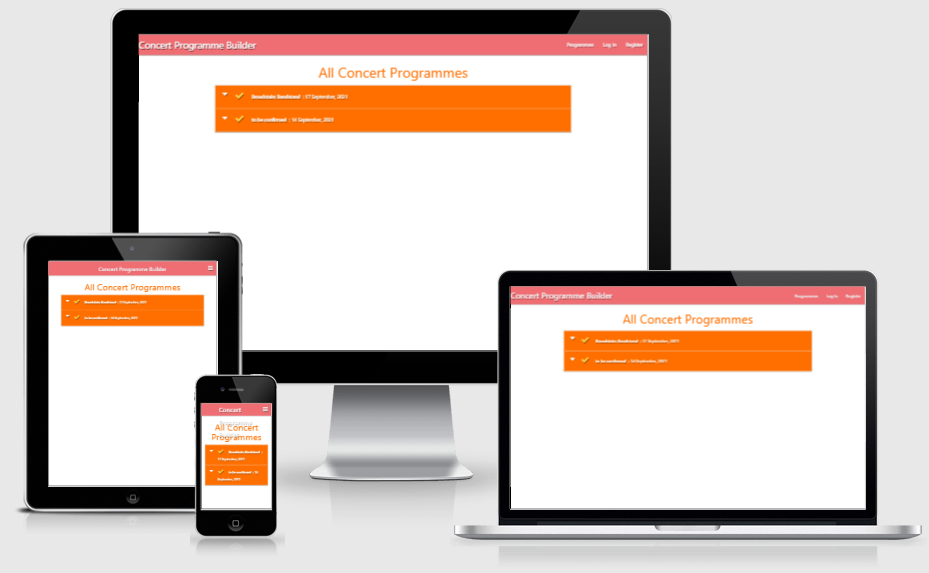
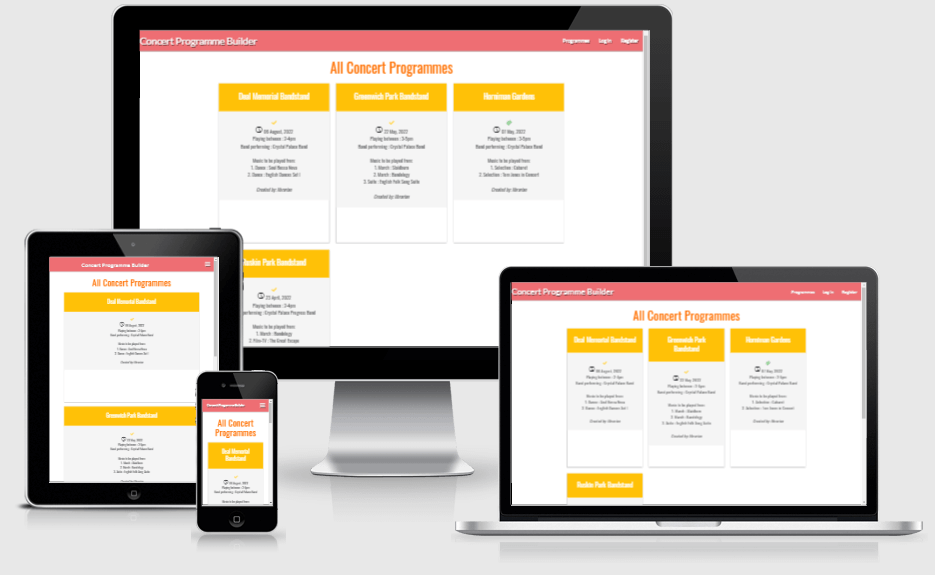
amend README (including new amended image files) to reflect resubmission position

Changed region(s): [[0.0, 0.0, 0.9989, 0.9791]]

diff --git a/README.md b/README.md
@@ -110,12 +110,12 @@ The following user stories were descoped early on in the project due to time con
 
 - ## 4. Skeleton
 
-> -  Wireframes available [here](/static/docs/RLs-CI-MS3-Wireframes.pdf).
+> -  Wireframes available [here](/static/docs/RLs-CI-MS3-Wireframes.pdf). It should be noted that the display layouts actually developed have evolved since the these orginal wireframes were produced to generally improve the look and feel of the site. Key differences are the use of cards rather accordion devices for displaying the concert programmes and the ability introduced to store a variable number of music items within a programme. Revised Wireframes will be provided in the future.
 > -  A multi page website using Flask to route to the appropriate template page, dependent on the options selected made up of the following pages :
 > -  The Home page provides a textual introduction to the site.
 > -  The Music Items page (only visible to the Librarian, Musical Director(s) and registered Band Members) presents a summary list of music items available with a search facility based on the Title. Additional edit capabilities are provided only to the Librarian, Musical Director(s) for integrity purposes.
 > -  The Concert Programmes page (visible to all users) presents a summary list of concert programmes available with a search facility based on the venue and/or date. Additional edit capabilities are provided only to the Librarian, Musical Director(s) for integrity purposes. 
-> -  The Concert Programme Details page (available via the Concert Programmes page) provides the date, times, venue and content of the programme with an option to print.
+> -  The Concert Programme Details page (available via the Concert Programmes page) provides the date, times, venue and content of the programme with an option to print. (Note : the print feature was was dropped from the initial scope of this project due to time constraints)
 > -  The Login / Register page.
 > -  The User Admin page (only accessible to the User Admin) for the creation, display, search, update and delete of user profiles. (Note : this feature was dropped from the initial scope of this project due to time constraints)
 >
@@ -125,7 +125,7 @@ The following user stories were descoped early on in the project due to time con
 
 - ## 5. Surface
 
-> I've decided on the same colour scheme for the body of each separate page using appropriate icons alongside the title of the page to keep a sense of where you are on the site.
+> I've decided on the same colour scheme for the body of each separate page using just the title of the page to keep a sense of where you are on the site.
 >
 > ### Colours
 >
@@ -134,12 +134,13 @@ The following user stories were descoped early on in the project due to time con
 > 
 > ### Typography
 >
-> - "Lato" font (with fall-back font of Verdana) for main headings. This font was specifically chosen for the header page title and subtitle.
+> - "Lato" font (with fall-back font of Verdana) for main headings and the footer. This font was specifically chosen for the header page title and subtitle and the footer copyright text.
 > - "Oswald" font (with fall-back font of Sans-Serif) for body content.
 >
 > ### Images
 >
-> The image selection has been carefully chosen to depict the target audiences for this directory to make this a more welcoming resource.
+> Image usage has been avoided for the initial version of the site so as not to detract from the development of the functionality required for an MS4 project.
+> Possible future usage of images could revolve around pictures of venues to be used as appropriate background to the venue entries and the individual programmes to make this a more welcoming resource.
 
 ---
 
@@ -234,12 +235,8 @@ The following user stories were descoped early on in the project due to time con
 |concert_venue          |string         |location of concert from *venues*
 |concert_date           |date           |date of concert
 |concert_times          |time           |times of concert
-|prog_item_1            |string         |1st chosen item on programme
-|prog_item_2            |string         |2nd chosen item on programme
-|prog_item_3            |string         |3rd chosen item on programme
-|prog_item_4            |string         |4th chosen item on programme
-|prog_item_5            |string         |5th chosen item on programme
-|prog_item_6            |string         |6th chosen item on programme
+|prog_items             |array          |each array entry represents a chosen item on programme as a string
+|                       |               |which concatenates together the genre and the title from the piece.
 |created_by             |ObjectId       |object id taken from *users*
 
 ## users collection
@@ -290,7 +287,7 @@ The following user stories were descoped early on in the project due to time con
 
 > - [Heroku](https://www.heroku.com/) used to deploy live site
 > - [MongoDB](https://www.mongodb.com/) used to host database information.
-> - [RandomKeygen](https://randomkeygen.com/) used to create a strong password for required  `<SECRET_KEY>`.
+> - [RandomKeygen](https://randomkeygen.com/) used to create a strong password for required  `<MS3_SECRET_KEY>`.
 > - [Lighthouse](https://developers.google.com/web/tools/lighthouse) for performance review.
 > - [Autoprefixer](https://autoprefixer.github.io/) Parses CSS and adds vendor prefixes.
 > - [Google Mobile-Friendly Test](https://search.google.com/test/mobile-friendly) Mobile-friendly check on site.
@@ -326,13 +323,16 @@ The following user stories were descoped early on in the project due to time con
 
 # Testing
 
-Due to the size of the testing section, I have created a separate document for it. You can find it [here](https://github.com/tubaman48/CI-MS3-concert-programme-builder/main/TESTING.md).
+Due to the size of the testing section, I have created a separate document for it. You can find it [here](https://github.com/tubaman48/CI-MS3-concert-programme-builder/blob/main/TESTING.md).
 
 ---
 
 # Project barriers and solutions
 
-> - to be done
+> - The key technical challenge for this particular site was to provide a clean and flexible automated method to select multiple pieces from the music_items collection.
+> - The limited time available for the original submission of this MS3 project meant that at the time I had to put in a rather clumsy manual process to cut and paste selected pieces into up to 6 fixed entries, which was not to my liking.
+> - However, for this resubmission I worked out the basis for the automated solution with strong guidance and superb technical input from my mentor Antonio Rodrigues, which I was able to take forward and mould into a tidier solution that enabled candidate lists to be generated, where the ticked selections were automatically populated into an array of entries.
+> - There are still some glitches which need further attention to fix (documented [here](https://github.com/tubaman48/CI-MS3-concert-programme-builder/blob/main/TESTING.md#known-bugs) at the bottom of the TESTING.md under Known Bugs), but I hope it can be seen that it goes a long way towards providing the user experience that I intended.
 
 ---
 
@@ -353,8 +353,6 @@ Due to the size of the testing section, I have created a separate document for i
 # Version Control
 
 > - Used Git for version control.
-> - Branches were created to work on alternative fixes to issues encountered.
-> - The branches were then merged with the master branch after any conflicts were addressed.
 
 ---
 # Deployment
@@ -368,12 +366,42 @@ Due to the size of the testing section, I have created a separate document for i
 > - Under the [settings/pages](https://github.com/tubaman48/CI-MS3-concert-programme-builder/settings/pages) section of the GitHub repository, under 'Source' drop-down, the 'Main branch' was selected.
 > - Once saved, this publishes the project to GitHub Pages and displays the site url.
 > - There is no difference between the deployed version and the development version.
+
+### **Local Deployment**
+
 > - The code can be run locally through clone or download.
-> - You can do this by opening the repository, clicking on the green 'Code' button and selecting either 'clone or download'.
+> - You can do this by opening the repository on GitHub, clicking on the green 'Code' button and selecting either 'clone or download'.
 > - The Clone option provides a url ( https://github.com/tubaman48/CI-MS3-concert-programme-builder ), which you can use on your desktop IDE.
 > - The Download ZIP option provides a link to download a ZIP file which can be unzipped on your local machine.
+> - Alternatively, you can clone the repository using the following line in your terminal: git clone https://github.com/tubaman48/CI-MS3-concert-programme-builder
+> - Access the folder in your terminal window and install the application's required modules using the following command: pip3 install -r requirements.txt
+
+#### MongoDB set up
+> - Sign-in or sign-up to MongoDB and create a new cluster (the information required is documented on the CI public GitHub at https://github.com/Code-Institute-Solutions/MongoDB/blob/master/01-CreateAMongoDBDatabase/01-create_a_mongodb_database/mongoSetup.md)
+> - Within the Sandbox, click the collections button and after click Create Database (Add My Own Data) called programme_builder
+> - Set up the following collections: bands, genres, music_items, progs, statuses, users, and venues. Refer to earlier Database section in this README to set up the exact structure for each collection. 
+> - Also, an extra second index named genre_name_text_title_text needs to be set up for collection music_items, as per following screenshot :
+![Image](/static/images/MongoDB-setup-2nd-index-for-music_items.png)
+> - Under the Security menu on the left, select Database Access.
+> - Add a new database user, and keep the credentials secure
+> - Within the Network Access option, add IP Address 0.0.0.0
+> - In your IDE, create a file containing your environmental variables called env.py at the root level of the application. It will need to contain the following lines and variables: 
+
+"""
+Local environment settings
+"""
+
+import os
+
+os.environ.setdefault("IP", "0.0.0.0")
+os.environ.setdefault("PORT", "5000")
+os.environ.setdefault("MS3_SECRET_KEY", "YOUR_SECRET_KEY")
+os.environ.setdefault("MONGO_URI", "YOUR_MONGODB_URI")
+os.environ.setdefault("MONGO_DBNAME", "programme_builder")
+
+> - YOUR_MONGODB_URI will be the value within MongoDB found by going to clusters> connect> connect to your application and entering your passwords and dbname within the link.
 > - The project was deployed to Heroku for the live site and the pushes to GitHub automatically pushed to Heroku to update the live site. 
-> - Please note that this project will only run locally if an env.py file is set up containing the IP, PORT, SECRET_KEY, MONGO-URI and MONGO_DBNAME. 
+> - Please note that this project will only run locally if : 1) an env.py file is set up containing the IP, PORT, MS3_SECRET_KEY, MONGO-URI and MONGO_DBNAME and 2) (for GitPod users) the above 5 variables are set up with the same values under Settings>Variables within your Gitpod Workspace. 
 >   For security reasons these details will not be shared on this documentation. The env.py file should be added to your gitignore file.
 
 ### **Heroku**
@@ -399,7 +427,7 @@ Due to the size of the testing section, I have created a separate document for i
 >  
 >      * IP: 0.0.0.0
 >      * PORT: 5000
->      * SECRET_KEY: (This is a secret password that must be very secure - recommend selecting a "Fort Knox Password" at https://randomkeygen.com/)
+>      * MS3_SECRET_KEY: (This is a secret password that must be very secure - recommend selecting a "Fort Knox Password" at https://randomkeygen.com/)
 >      * MONGO_DBNAME: (enter the database name that you are connecting to - in this case *programme_builder* )
 >      * MONGO_URI: (enter your mongo uri. This is found by going to clusters> connect> connect to your application and entering your passwords and dbname within the link)
 >  
@@ -434,7 +462,11 @@ Due to the size of the testing section, I have created a separate document for i
 > - A combination of *Amy O'Shea* and *Rachel Sherlock* for their example MS3 README.md files :
 >      https://github.com/AmyOShea/MS3-Cocktail-Hour/blob/master/README.md
 >      https://github.com/Rachel2308/MS3-belles-task-manager/blob/master/README.md
->   These examples significantly helped me with formatting of the database schema / nav link accessibility table within features / deployment sections within this README.
+>   These examples significantly helped me with formatting of the database schema / nav link accessibility table within features / deployment sections within this README for the original project submission.
+> - *Marina Shalneva* for her example MS3 README.md file :
+>      https://github.com/marina601/scooter-circle/blob/master/README.md
+>   This helped me to improve my local deployment instructions for the project resubmission.
+> - My mentor *Antonio Rodrigues* - especially for his technical guidance for my resubmission (so quickly imparted over 2 or 3 interactive sessions within a few days).
 > - **CI staff** and **Slack Community** for always being on-hand with questions posted and assistance requests.
 > - Everyone that takes part in the Slack calls, specifically from the **#In-It-Together** and **#London Community** channels.
 
